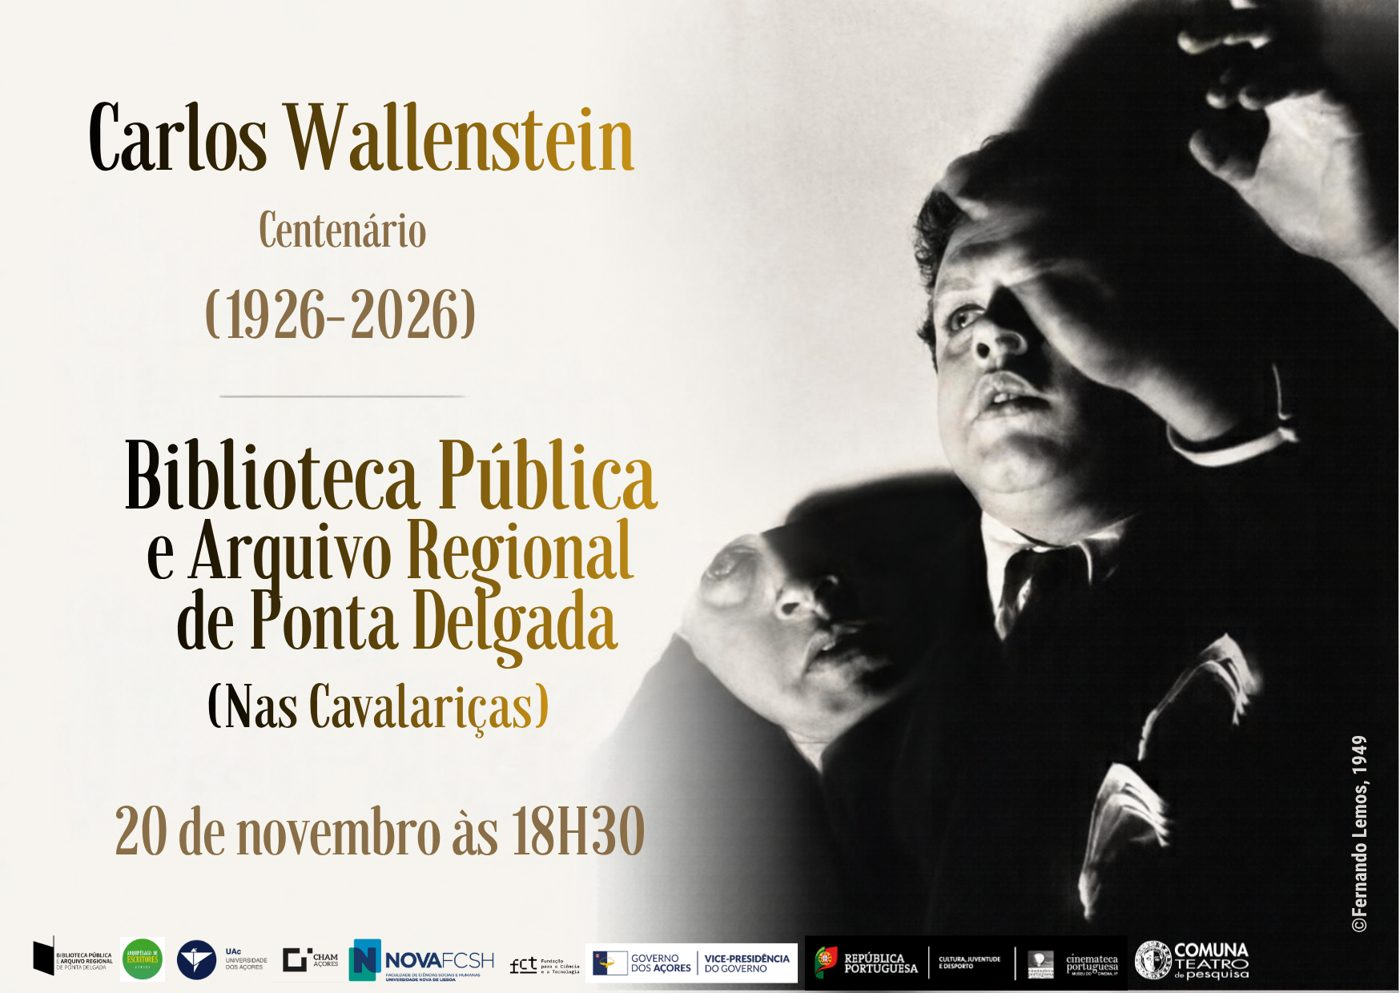
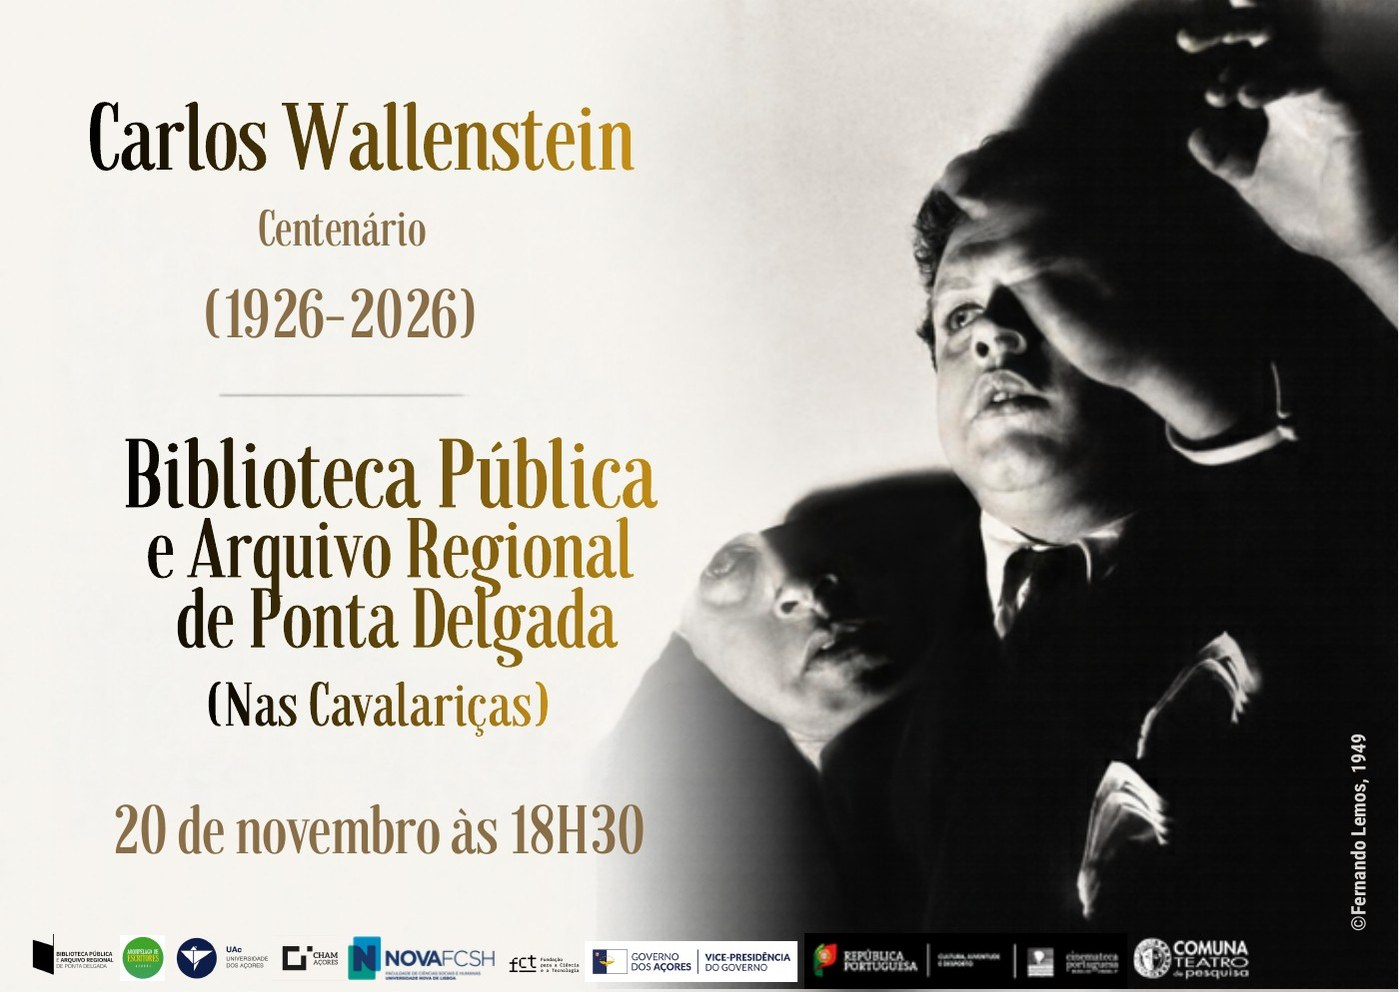
Add files via upload

diff --git a/centenario.html b/centenario.html
@@ -117,11 +117,11 @@
       <li class="tl__item">
         <div class="tl__year">20 nov<br><span class="muted">18h30</span></div>
         <div class="tl__body"><span class="tl__tag">Biblioteca Pública e Arquivo Regional de Ponta Delgada · Nas Cavalariças</span>
-          <p><b>«Carlos Wallenstein: o Real Transgressor»</b> – performance e leituras com Eleonora Marino Duarte e convidados.</p>
+          <p><b>«Carlos Wallenstein: o Real Transgressor»</b> – performance de Eleonora Marino Duarte e Mário Roberto; leituras do Grupo Palavras Sentidas.</p>
           <p class="muted">Organização: Arquipélago de Escritores. Direcção de Nuno Costa Santos.</p>
           <div class="postais">
             <figure><a href="postal-bpard-cartaz.jpg" target="_blank" rel="noopener"><img src="postal-bpard-cartaz.jpg" alt="Cartaz: Biblioteca Pública e Arquivo Regional de Ponta Delgada (Nas Cavalariças), 20 de Novembro às 18h30" loading="lazy"></a><figcaption>Cartaz</figcaption></figure>
-            <figure><a href="postal-bpard-programa.jpg" target="_blank" rel="noopener"><img src="postal-bpard-programa.jpg" alt="Programa: Carlos Wallenstein, o Real Transgressor — performance e leituras" loading="lazy"></a><figcaption>Programa</figcaption></figure>
+            <figure><a href="postal-bpard-programa.jpg" target="_blank" rel="noopener"><img src="postal-bpard-programa.jpg" alt="Programa: Carlos Wallenstein, o Real Transgressor — performance de Eleonora Marino Duarte e Mário Roberto; leituras do Grupo Palavras Sentidas; organização do Arquipélago de Escritores; direcção de Nuno Costa Santos" loading="lazy"></a><figcaption>Programa</figcaption></figure>
           </div></div>
       </li>
     </ol>
